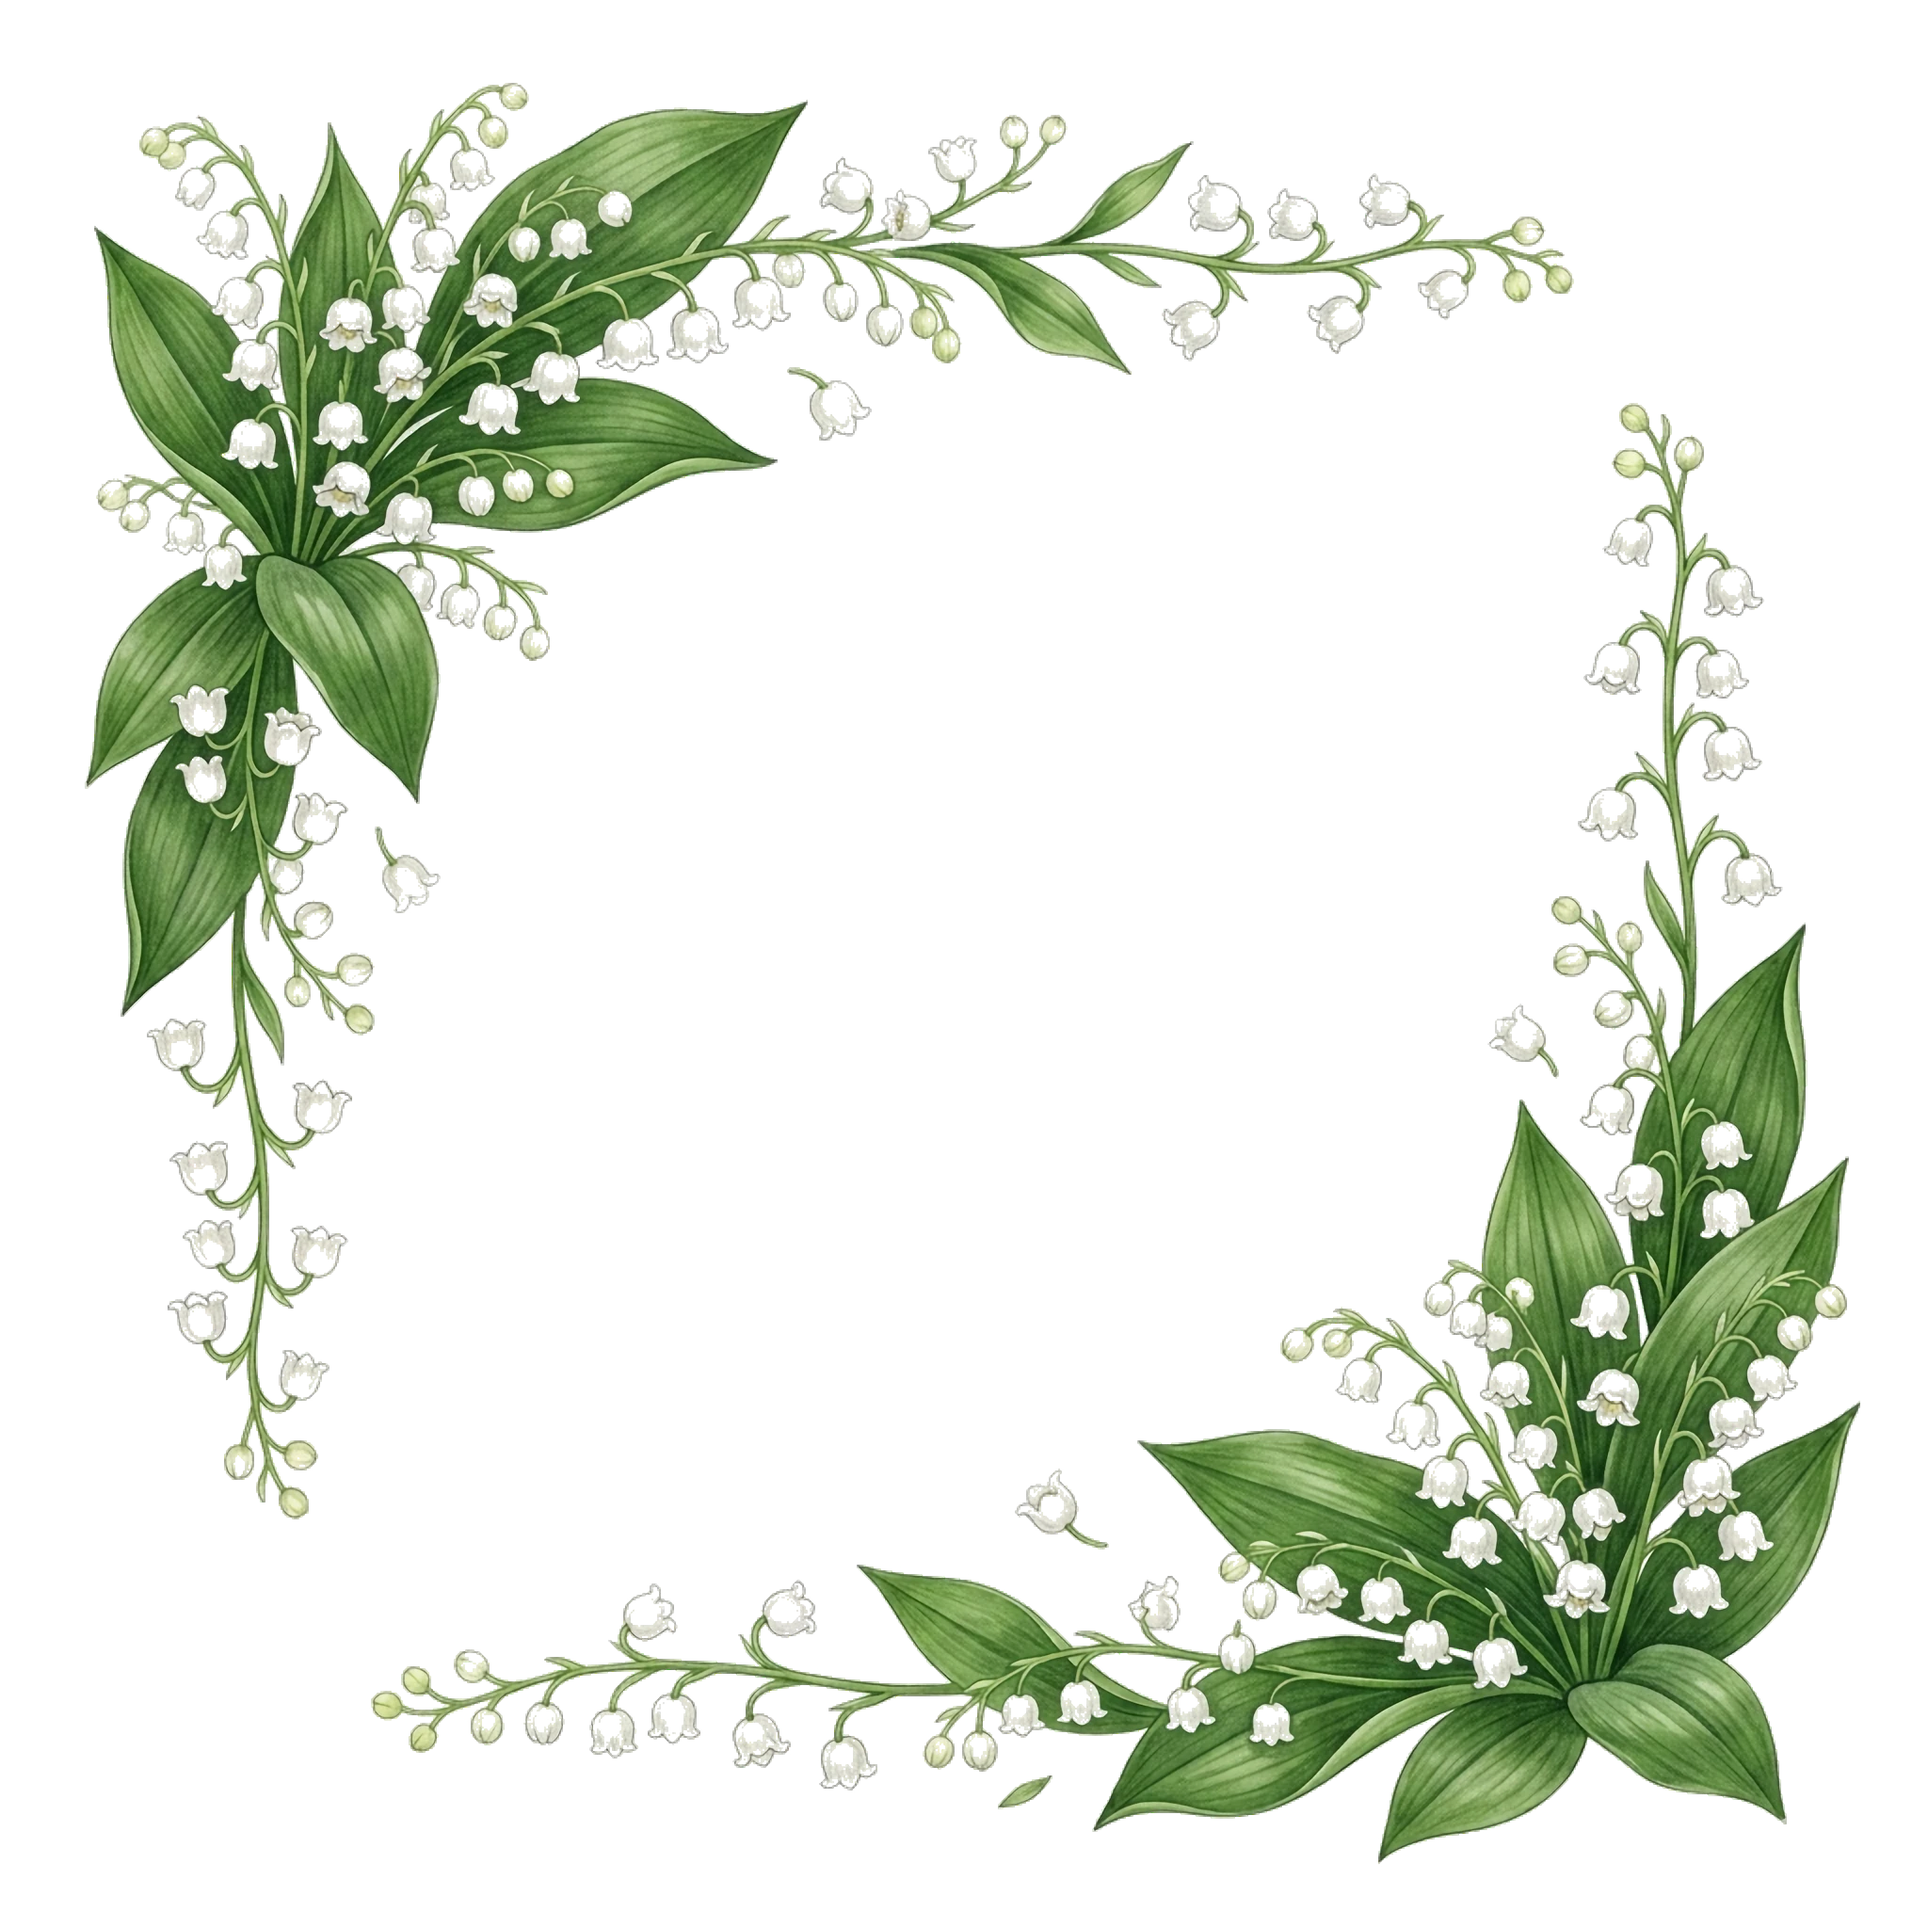
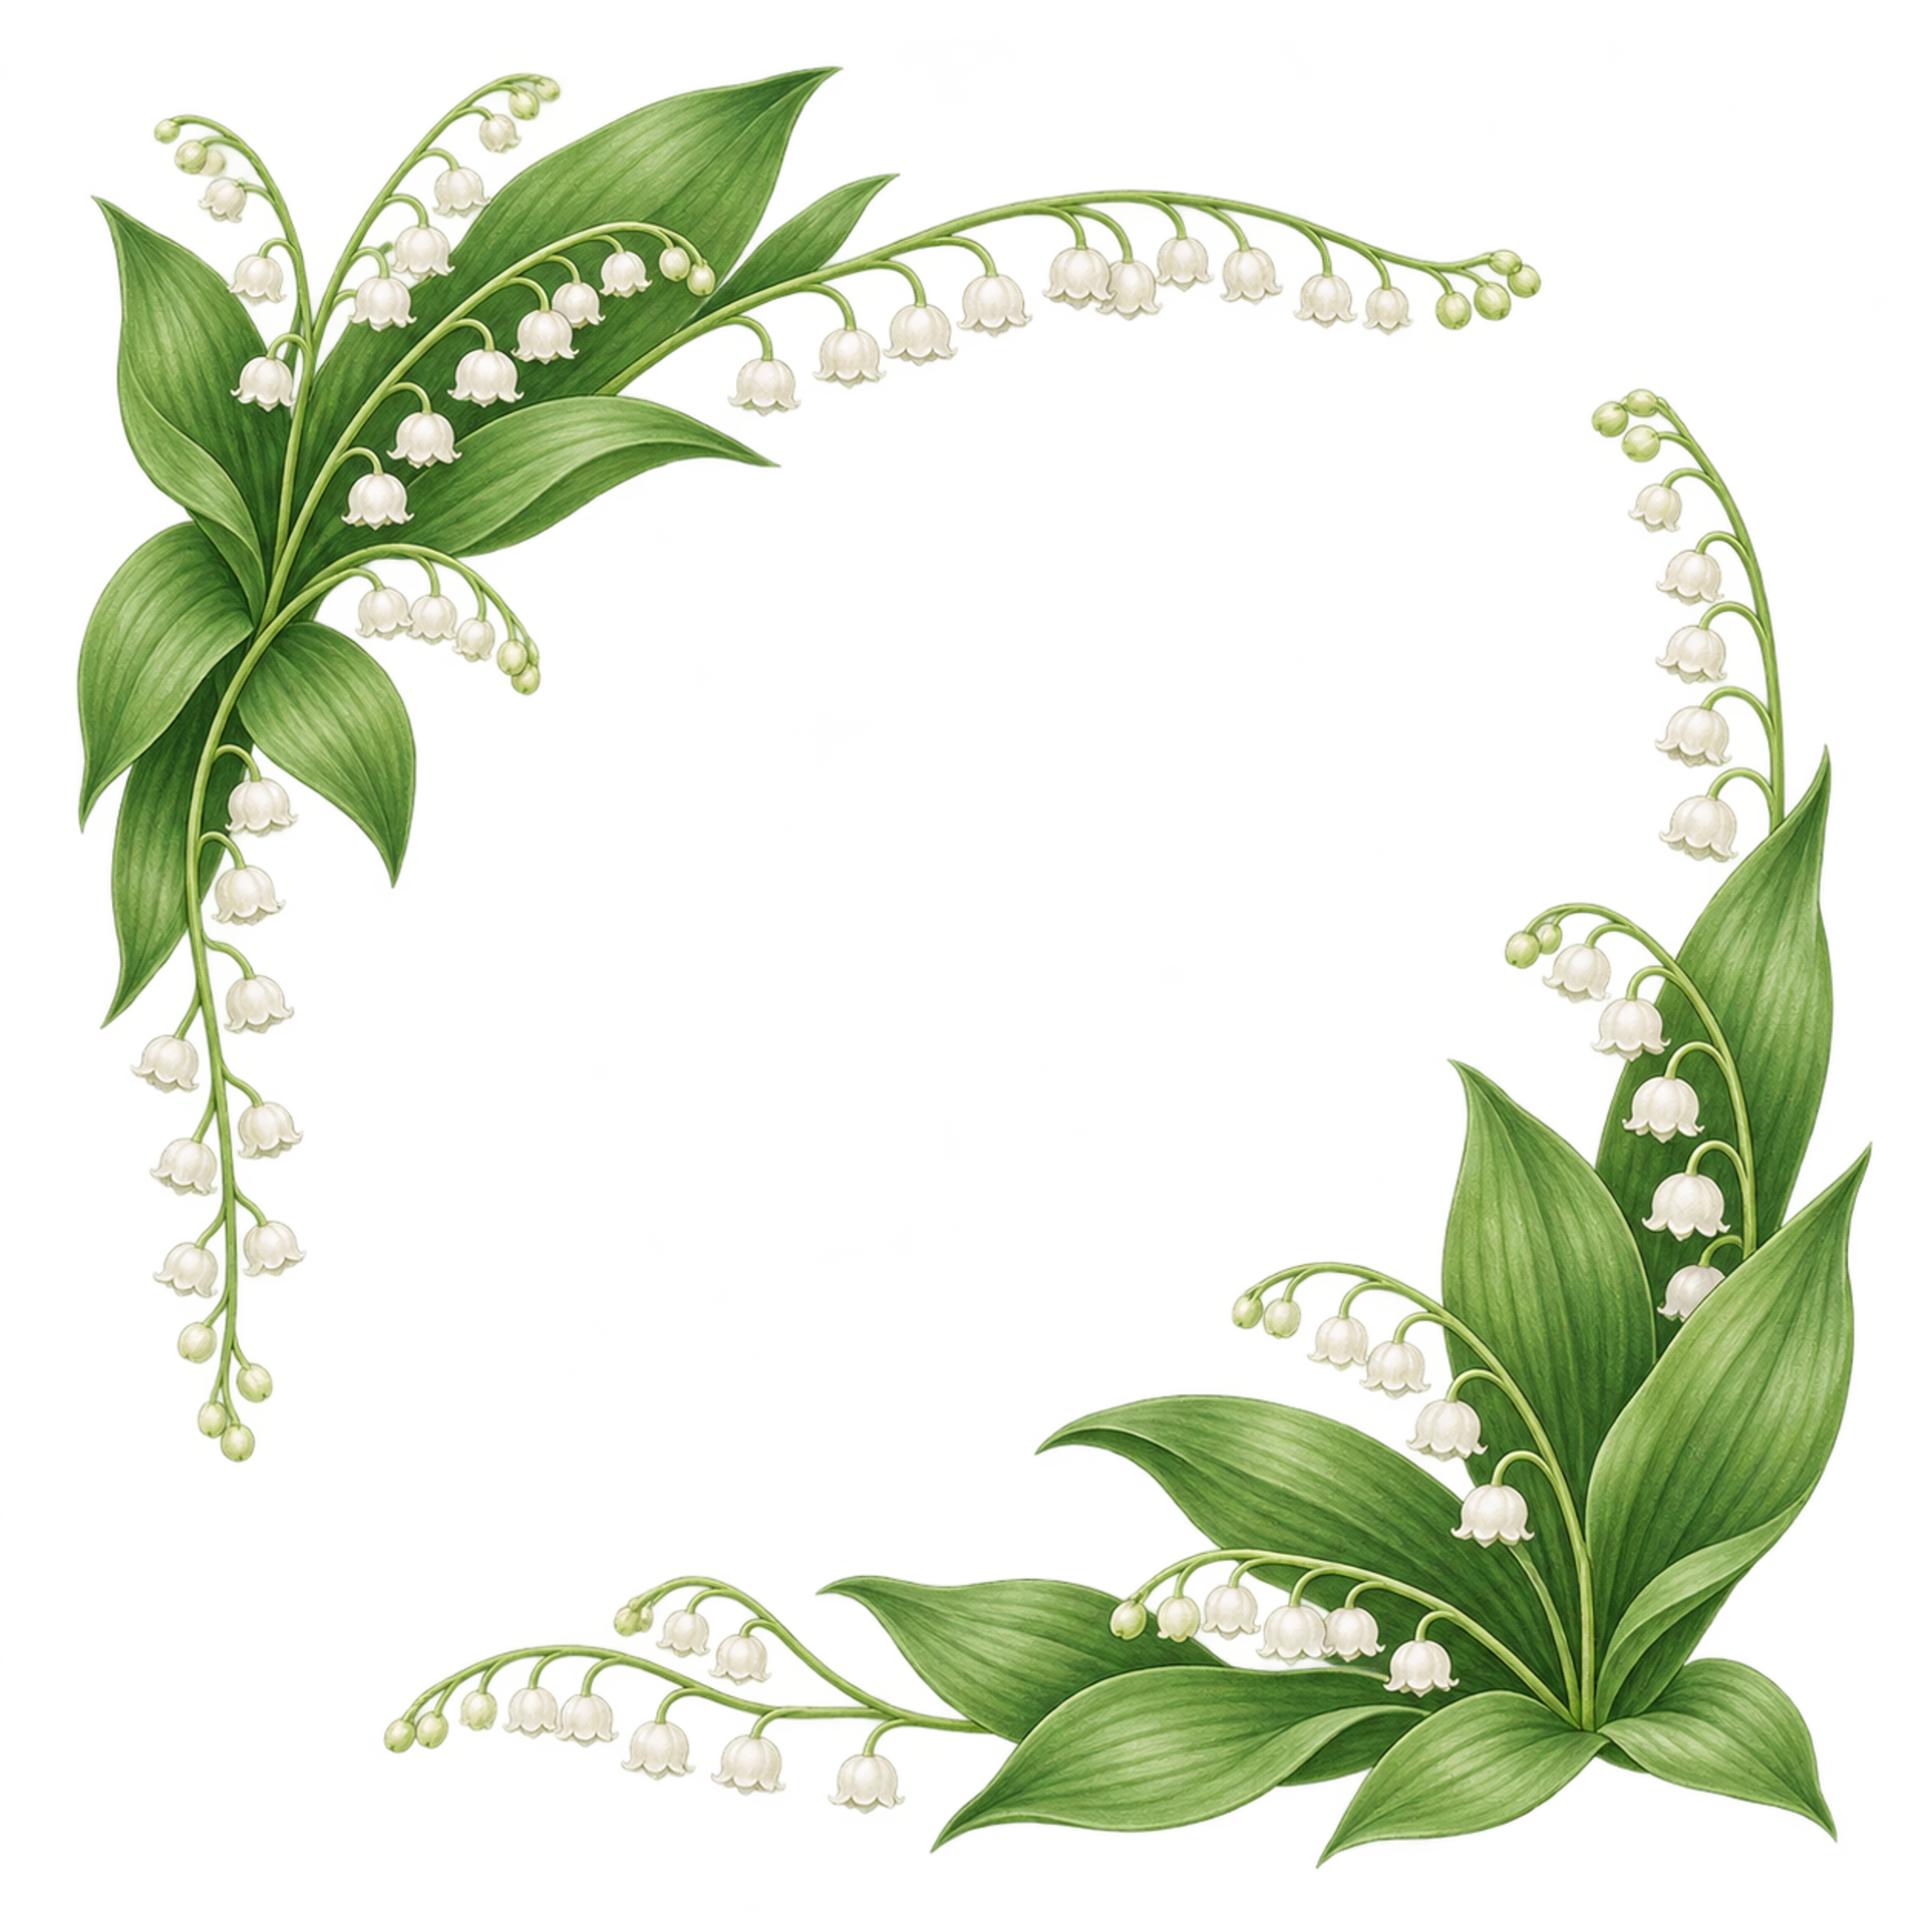
同梱の扉絵・節絵の花の絵 12 枚を、白い部分が透過になっていない絵に差し替える
元の絵を用意する段階で、花の白い部分まで透過になっていた。
bundled_refine/ の絵（白い部分を不透明のまま保った絵）で置き換える。

Changed region(s): [[0.1875, 0.1875, 0.9688, 0.9688], [0.0312, 0.0312, 0.8125, 0.7812]]

diff --git a/CHANGELOG.md b/CHANGELOG.md
@@ -15,6 +15,11 @@
 - 表紙のテーマ名にハイフンを使えるようにした（`cover: my-floral`）。
 ```
 
+## [Unreleased]
+
+### Changed
+- 同梱の扉絵・節絵の花の絵 12 枚（`sakura` など）を、白い部分が透過になっていない絵に差し替えた。
+
 ## [1.0.1] - 2026-11-19
 
 ### Added
